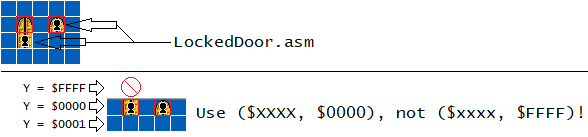
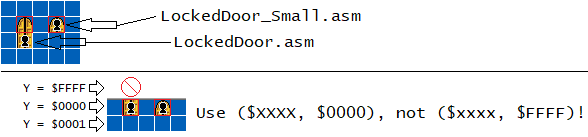
Add files via upload

Changed region(s): [[0.2449, 0.0584, 0.6122, 0.1752], [0.2143, 0.146, 0.2449, 0.1752], [0.1837, 0.1752, 0.2143, 0.2044]]

diff --git a/Readme.html b/Readme.html
@@ -60,7 +60,7 @@ will use that index number to determine what flag number to set/reset a bit in <
 
 <h2>Useful stuff provided here</h2>
 <ul>
-<li>I made a <a href="Readme_files/JS_MemoryCalculator.html" id="MemoryCalculator">Javascript tool</a> that displays the memory statistics along with what flag gets written to what flag in <kbd>$7FC060</kbd>,
+<li>I made a <a href="Readme_files/JS_MemoryCalculator.html" id="MemoryCalculator">Javascript tool</a> that displays the memory statistics, what flag number is in what byte, and what flag gets written to what flag in <kbd>$7FC060</kbd>,
 good for debugging among other things.</li>
 <li>For debugging and dealing with bitwise values, I've provided a <a href="Readme_files/JS_HexBinary.html" id="HexBinary">simple converter</a> between hex and binary.</li>
 </ul>
@@ -224,7 +224,8 @@ init:
 					(a regular-sized 16x32 door setting that allows any powerup instead of just small mario) the block would use the block position <i>above</i> it (the custom block
 					itself will act as the lower part of the 16x32 door and the top part is the selected coordinate), unless the lower half of the door is at <kbd>Y=$0000</kbd>,
 					(the selected coordinate will use <kbd>Y=$0000</kbd> instead of <kbd>Y=$FFFF</kbd>):</p>
-					<img src="Readme_files/DoorSelectedCoordinate.png"><br>
+					<img src="Readme_files/DoorSelectedCoordinate.png">
+					<p>Small and a normal-sized doors included, you don't have to create a copy and edit the settings to make a small door.</p>
 				</li>
 				<li>
 					<p><sup><font color="yellow">[Return later]</font></sup>Also every time you place these memorized blocks, is that you must select them (all within the group if
@@ -235,21 +236,21 @@ init:
 					<p>What LMCM16 flag number you should put down is the flag number of <kbd>!Freeram_MemoryFlag</kbd>, MOD 128. For example:<br>
 					<table>
 					<tr><th>Flag number of <kbd>!Freeram_MemoryFlag</kbd></th><th>LM's flag number</th></tr>
-					<tr><td>$000</td><td>$00</td></tr>
-					<tr><td>$001</td><td>$01</td></tr>
-					<tr><td>$002</td><td>$02</td></tr>
+					<tr><td>$000 (Group 0)</td><td>$00</td></tr>
+					<tr><td>$001 (Group 0)</td><td>$01</td></tr>
+					<tr><td>$002 (Group 0)</td><td>$02</td></tr>
 					<tr><td>...</td><td>...</td></tr>
-					<tr><td>$07E</td><td>$7E</td></tr>
-					<tr><td>$07F</td><td>$7F</td></tr>
-					<tr><td>$080</td><td>$00</td></tr>
-					<tr><td>$081</td><td>$01</td></tr>
-					<tr><td>$082</td><td>$02</td></tr>
+					<tr><td>$07E (Group 0)</td><td>$7E</td></tr>
+					<tr><td>$07F (Group 0)</td><td>$7F</td></tr>
+					<tr><td>$080 (Group 1)</td><td>$00</td></tr>
+					<tr><td>$081 (Group 1)</td><td>$01</td></tr>
+					<tr><td>$082 (Group 1)</td><td>$02</td></tr>
 					<tr><td>...</td><td>...</td></tr>
-					<tr><td>$0FE</td><td>$7E</td></tr>
-					<tr><td>$0FF</td><td>$7F</td></tr>
-					<tr><td>$100</td><td>$00</td></tr>
-					<tr><td>$101</td><td>$01</td></tr>
-					<tr><td>$102</td><td>$02</td></tr>
+					<tr><td>$0FE (Group 1)</td><td>$7E</td></tr>
+					<tr><td>$0FF (Group 1)</td><td>$7F</td></tr>
+					<tr><td>$100 (Group 2)</td><td>$00</td></tr>
+					<tr><td>$101 (Group 2)</td><td>$01</td></tr>
+					<tr><td>$102 (Group 2)</td><td>$02</td></tr>
 					<tr><td>...</td><td>...</td></tr>
 					</table><br>
 					Also remember that up to 128 different flag numbers can be used per level, this means, for example if you end up with one level
@@ -304,5 +305,5 @@ init:
 <h2>Credits</h2>
 <ul>
 <li><a href="https://stackoverflow.com/a/8083480/11030779">Stack Overflow on the font for inputs</a>.</li>
-<li><a href="https://www.smwcentral.net/?p=profile&id=22951">MarioFanGamer</a> for the door blocks.</li>
+<li><a href="https://www.smwcentral.net/?p=profile&id=22951">MarioFanGamer</a> for the <a href="https://www.smwcentral.net/?p=section&a=details&id=21130">door blocks.</a></li>
 </ul>
